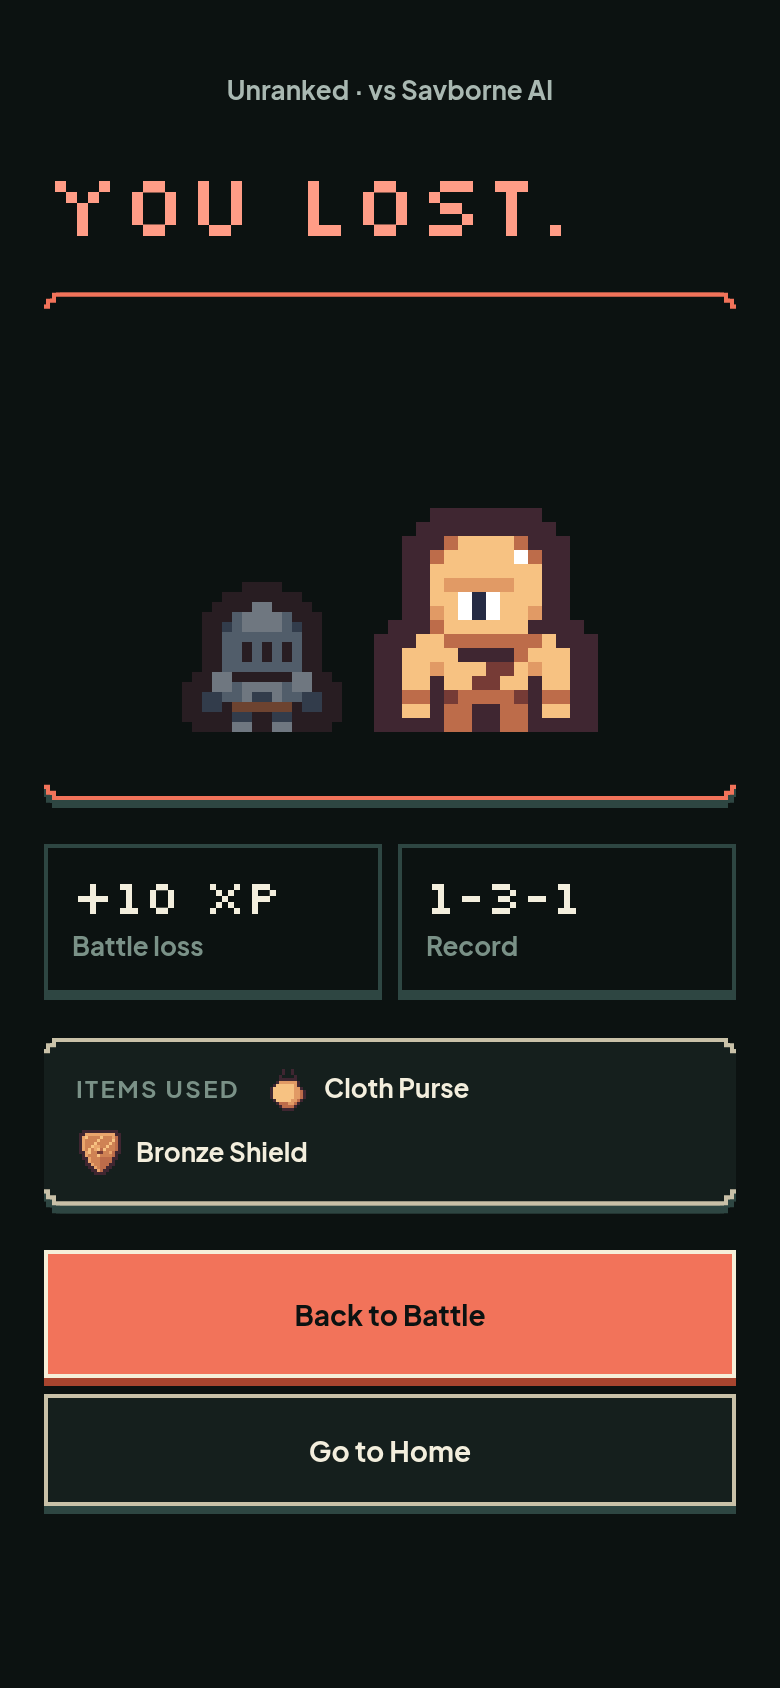
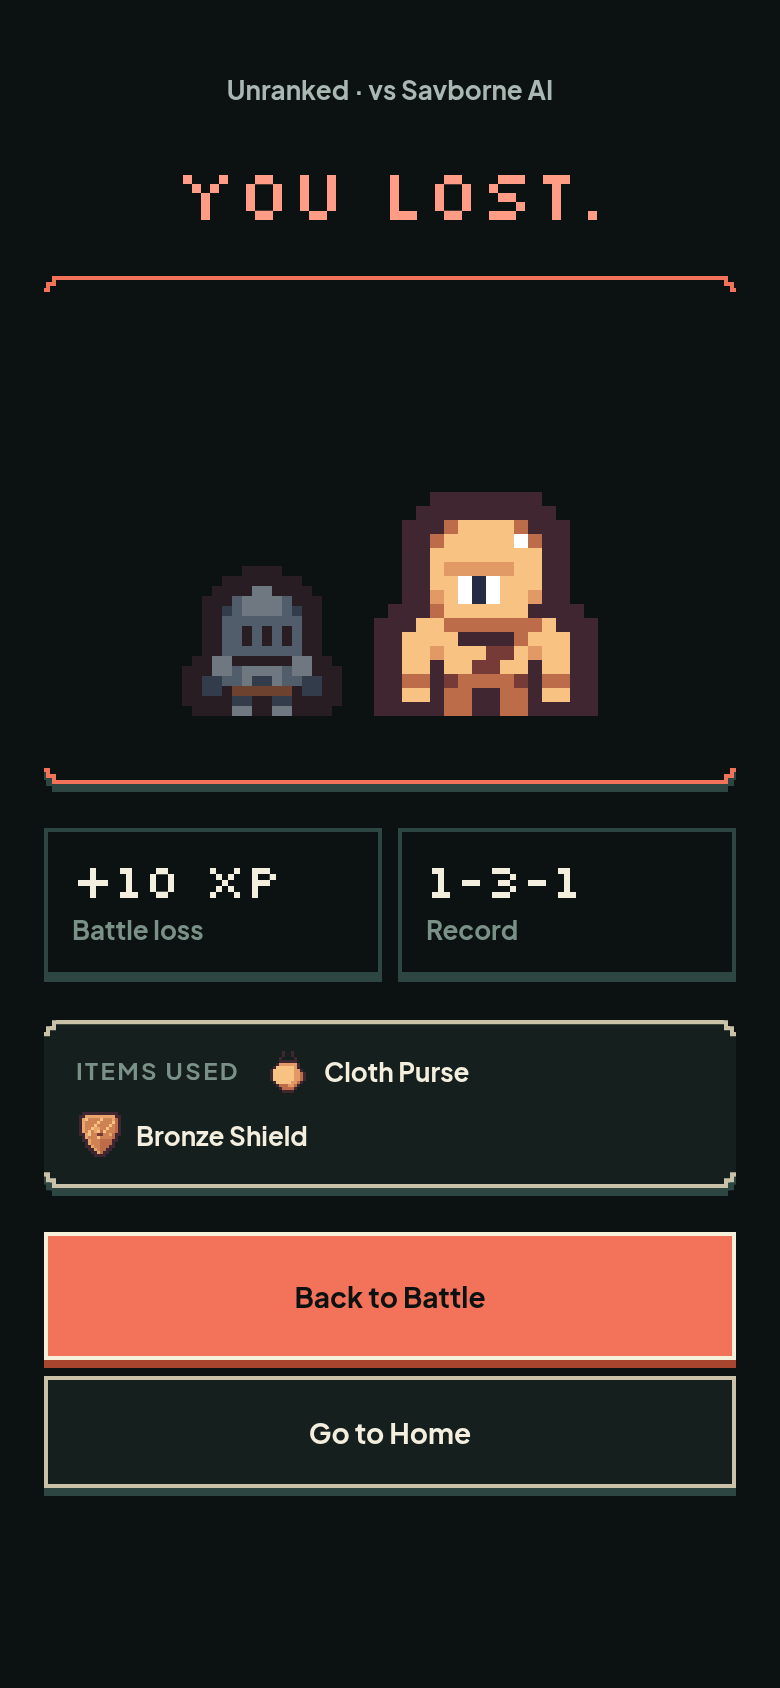
fix: centre and reduce the battle result titles

diff --git a/src/components/ui/ResultPanel.tsx b/src/components/ui/ResultPanel.tsx
@@ -12,6 +12,10 @@ export type ResultTile = { label: string; value: string }
 type ResultPanelProps = {
   title: string
   tone: 'mint' | 'coral' | 'cream'
+  /** Headline alignment. Defaults to left for non-Battle consumers. */
+  titleAlign?: 'left' | 'center'
+  /** Headline size. `compact` is 36px Silkscreen; `display` is 44px. */
+  titleSize?: 'display' | 'compact'
   /** Rendered between the headline and the tiles, e.g. the result arena. */
   header?: ReactNode
   tiles: ResultTile[]
@@ -25,10 +29,37 @@ const TONE: Record<ResultPanelProps['tone'], string> = {
   cream: 'var(--fg)',
 }
 
-export function ResultPanel({ title, tone, header, tiles, unlocks, actions }: ResultPanelProps) {
+export function ResultPanel({
+  title,
+  tone,
+  titleAlign = 'left',
+  titleSize = 'display',
+  header,
+  tiles,
+  unlocks,
+  actions,
+}: ResultPanelProps) {
+  const titleClass = [
+    titleSize === 'compact' ? '' : 'sv-display',
+    titleAlign === 'center' ? 'text-center text-balance' : '',
+  ]
+    .filter(Boolean)
+    .join(' ')
+  const titleStyle = {
+    color: TONE[tone],
+    ...(titleSize === 'compact'
+      ? {
+          fontFamily: 'var(--font-silkscreen)',
+          fontWeight: 400,
+          fontSize: 36,
+          lineHeight: 1.05,
+        }
+      : {}),
+  }
+
   return (
     <div className="flex flex-col gap-6">
-      <h1 className="sv-display" style={{ color: TONE[tone] }}>
+      <h1 className={titleClass} style={titleStyle}>
         {title}
       </h1>
 

diff --git a/src/lib/ui-primitives.test.ts b/src/lib/ui-primitives.test.ts
@@ -101,7 +101,12 @@ test('ResultPanel renders a display headline, tiles and actions', () => {
   assert.match(src, /tiles:\s*ResultTile\[\]/)
   assert.match(src, /header\?:\s*ReactNode/)
   assert.match(src, /unlocks\?/)
+  assert.match(src, /titleAlign\?:\s*'left'\s*\|\s*'center'/)
+  assert.match(src, /titleSize\?:\s*'display'\s*\|\s*'compact'/)
   assert.match(src, /sv-display/)
+  assert.match(src, /fontSize: 36/)
+  assert.match(src, /fontFamily: 'var\(--font-silkscreen\)'/)
+  assert.match(src, /text-center text-balance/)
   assert.match(src, /vpx-soft/)
   assert.match(src, /sv-number-m/)
   assert.match(src, /tiles\.length === 2 \? 'grid-cols-2' : 'grid-cols-3'/)

diff --git a/src/lib/battle-result.test.ts b/src/lib/battle-result.test.ts
@@ -14,6 +14,8 @@ test('the result screen owns the headline, arena, tiles and actions', () => {
   assert.match(RESULT, /battleOutcome/)
   assert.match(RESULT, /battleXpForOutcome/)
   assert.match(RESULT, /resultSpriteSizes/)
+  assert.match(RESULT, /titleAlign="center"/)
+  assert.match(RESULT, /titleSize="compact"/)
   assert.match(RESULT, /spriteSizes\.me/)
   assert.match(RESULT, /spriteSizes\.opponent/)
   assert.match(RESULT, /Battle win|Battle loss|Battle tie/)

diff --git a/docs/superpowers/renders/battle/review/index.html b/docs/superpowers/renders/battle/review/index.html
@@ -188,8 +188,9 @@
 
 <p class="note">
   Result sizing: winner 112px, loser 80px, tie 96px each. The pair is centred
-  with a fixed 16px gap and a shared bottom edge. The hide/show rule is the
-  result screen only; the in-battle arena is unchanged.
+  with a fixed 16px gap and a shared bottom edge. The title is centred and
+  36px Silkscreen. These rules apply to the result screen only; the in-battle
+  arena is unchanged.
 </p>
 
 <section class="screen">

diff --git a/src/app/battle/[id]/result/page.tsx b/src/app/battle/[id]/result/page.tsx
@@ -194,6 +194,8 @@ export default function BattleResultPage() {
         <ResultPanel
           title={copy.title}
           tone={copy.tone}
+          titleAlign="center"
+          titleSize="compact"
           header={
             <Arena
               me={{

diff --git a/docs/superpowers/audits/2026-11-05-ui-gap-audit.md b/docs/superpowers/audits/2026-11-05-ui-gap-audit.md
@@ -686,6 +686,7 @@ The real-device pass in Nimiq Pay needs `.env.local` in the sandbox; the UI code
 - Daily Limit has a Missions link even though the figure does not draw one.
 - AI uses the existing rival art; the handoff's robot glyph is not in `assets/glyphs.json`.
 - Result sprites now follow the winner: 112px winner, 80px loser, 96px each on a tie. The pair is centred with a fixed 16px gap and a shared bottom edge, so it cannot touch at 360. The handoff drew them near-equal; this is a deliberate readability change, result screen only.
+- The result title is centred, balanced and 36px Silkscreen. `ResultPanel` defaults to left/44px; only the Battle result opts in, so future result screens are unaffected.
 - Connection lost is an in-page state; polling continues.
 - The check-in gate migration is manual and still needs the live acceptance run.
 

diff --git a/docs/superpowers/renders/battle/review/NOTES.md b/docs/superpowers/renders/battle/review/NOTES.md
@@ -106,6 +106,8 @@ Corrections:
   a tie. The pair is centred with a fixed 16px gap and a shared bottom edge.
   The handoff drew them near-equal; this is a deliberate readability change
   and applies to the result screen only.
+- The result title is centred, balanced and 36px Silkscreen. The shared
+  `ResultPanel` still defaults to left/44px; only the Battle result opts in.
 - The Daily Limit panel adds a `Go to Missions` link; the handoff caption asks
   for one but the figure does not draw it.
 - The AI card uses the existing rival art because the handoff's robot glyph is

diff --git a/docs/superpowers/specs/2026-11-09-battle-ui-design.md b/docs/superpowers/specs/2026-11-09-battle-ui-design.md
@@ -336,6 +336,9 @@ Above `ResultPanel`, a centered `.sv-label text-fg-muted` subline:
 `{Ranked|Unranked|Friend · Unranked} · vs {opponentName}`.
 
 `ResultPanel`:
+- title: `You win!`, `You lost.`, `It's a tie.`, centred and balanced at 36px
+  Silkscreen. The shared component defaults to left/44px; only the result
+  screen opts in;
 - 250px arena with viewer left and opponent right. Winner 112px (7x), loser
   80px (5x), tie both 96px (6x). The pair is centred with a fixed 16px gap and
   a shared bottom edge. The loser is at 0.55 opacity, the winner at full
